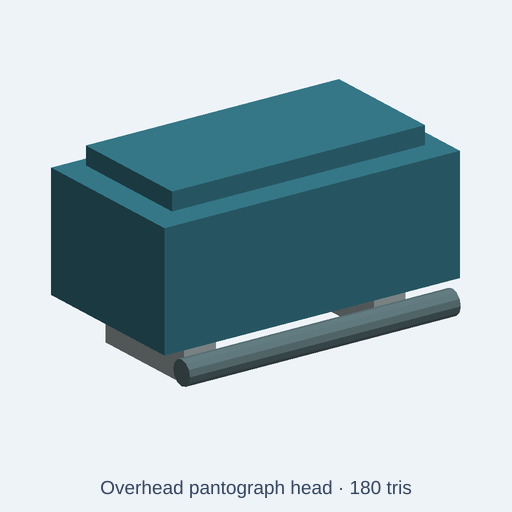
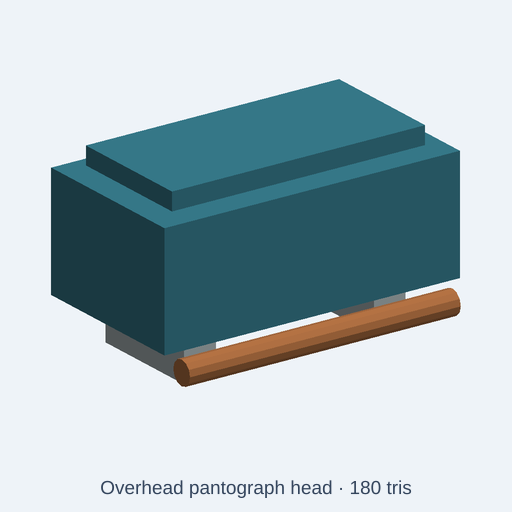
fix(catalog): colour pantograph contact rail as copper
The current-carrying contact-rail of
ev-charging-infrastructure/overhead-pantograph-head used the
engineeringPolymer colour, so the conductor read as an insulator. Add a
contactCopper control (#b87545) with preset values, assign it to the rail,
and drop the now-unused engineeringPolymer control. Geometry unchanged
(180 tris). Preview re-rendered; index regenerated (target row only).

Five-preview ledger and before/after evidence in
artifacts/catalog-demos/ev-charging-pantograph-contact-material-review-20261113.

Changed region(s): [[0.3438, 0.5625, 0.9062, 0.75]]

diff --git a/catalog/kits/ev-charging-infrastructure/overhead-pantograph-head.kcad.ts b/catalog/kits/ev-charging-infrastructure/overhead-pantograph-head.kcad.ts
@@ -1,13 +1,14 @@
 // SPDX-License-Identifier: CC0-1.0
 // quality-promotion: ev-charging-infrastructure 2026-11-05
 // Overhead pantograph head: compact overhead charging head with contact bar, hinge blocks, and a mounting yoke.
+// The contact rail carries the charging current, so it is bare copper, not engineering polymer.
 // Source convention: millimetres, Z up, base at z = 0.
 
 meta({
   name: "overhead-pantograph-head",
   license: 'CC0-1.0',
   title: "Overhead pantograph head",
-  description: "Compact overhead charging head with contact bar, hinge blocks, and a mounting yoke. Knobs: overall scale and powder-coated metal, engineering polymer and stainless steel color controls.",
+  description: "Compact overhead charging head with a bare copper contact bar, hinge blocks, and a mounting yoke. Knobs: overall scale and powder-coated metal, stainless steel and contact copper color controls.",
   tags: ['EV charging', 'electric vehicle', 'charging station', 'low poly', 'scene prop', 'CC0'],
   kit: "ev-charging-infrastructure",
   category: 'prop',
@@ -18,12 +19,12 @@ meta({
 
 const scale = param('scale', 1, { min: 0.7, max: 1.3, step: 0.05, label: 'Overall scale' });
 const powderCoat = param('powderCoat', '#397f90', { label: 'Powder-coated metal' });
-const engineeringPolymer = param('engineeringPolymer', '#657f84', { label: 'Engineering polymer' });
 const stainlessSteel = param('stainlessSteel', '#b5c0c2', { label: 'Stainless steel' });
+const contactCopper = param('contactCopper', '#b87545', { label: 'Copper contact rail' });
 
 presets({
-  fleetReady: { powderCoat: '#28765f', engineeringPolymer: '#263a36', stainlessSteel: '#c2c9c8' },
-  nightService: { powderCoat: '#3f5059', engineeringPolymer: '#222d32', stainlessSteel: '#c8cecd' },
+  fleetReady: { powderCoat: '#28765f', stainlessSteel: '#c2c9c8', contactCopper: '#c27c48' },
+  nightService: { powderCoat: '#3f5059', stainlessSteel: '#c8cecd', contactCopper: '#9a6440' },
 });
 const b=(x:number,y:number,z:number,w:number,d:number,h:number)=>box(w,d,h,true).translate(x,y,z+h/2).scale(scale);
 const c=(x:number,y:number,z:number,h:number,r:number,n=10)=>cylinder(h,r,n).translate(x,y,z).scale(scale);
@@ -33,7 +34,7 @@ const p=assembly("overhead-pantograph-head");
 p.part("mounting-yoke-left", b(-270, 0, 0, 90, 320, 330).color(stainlessSteel));
 p.part("mounting-yoke-right", b(270, 0, 0, 90, 320, 330).color(stainlessSteel));
 p.part("head-housing", b(0, 0, 120, 840, 460, 320).color(powderCoat));
-p.part("contact-rail", hx(0, -250, 75, 770, 34, 8).color(engineeringPolymer));
+p.part("contact-rail", hx(0, -250, 75, 770, 34, 8).color(contactCopper));
 p.part("pivot-left", c(-300, 0, 310, 90, 48, 8).color(powderCoat));
 p.part("pivot-right", c(300, 0, 310, 90, 48, 8).color(powderCoat));
 p.part("cover-panel", b(0, 0, 450, 720, 350, 50).color(powderCoat));

diff --git a/tests/integration/catalog/overheadPantographContactCopper.test.ts b/tests/integration/catalog/overheadPantographContactCopper.test.ts
@@ -1,0 +1,54 @@
+// SPDX-License-Identifier: MIT
+// Copyright (c) 2026 Andrii Shylenko and kernelCAD contributors
+
+import { resolve } from 'node:path';
+import { NodeIO } from '@gltf-transform/core';
+import { beforeAll, describe, expect, it } from 'vitest';
+import { buildCatalogAssetWithGlb } from '../../../src/agent/catalog/buildCatalog';
+import { initOcct } from '../../../src/kernel/backends/occt/occtBackend';
+
+const repoRoot = resolve(import.meta.dirname, '../../..');
+const source = 'catalog/kits/ev-charging-infrastructure/overhead-pantograph-head.kcad.ts';
+
+beforeAll(async () => {
+  await initOcct();
+}, 120_000);
+
+describe('ev-charging-infrastructure/overhead-pantograph-head contact material', () => {
+  it('colours the current-carrying contact rail as copper, not engineering polymer', async () => {
+    const { asset, glb } = await buildCatalogAssetWithGlb(repoRoot, source);
+
+    expect(asset.stats.triangles).toBe(180);
+    expect(asset.stats.triangles).toBeLessThanOrEqual(asset.triangleBudget);
+    expect(asset.description).toContain('bare copper contact bar');
+    expect(asset.params.filter((param) => param.type === 'color').map((param) => param.name)).toEqual([
+      'powderCoat', 'stainlessSteel', 'contactCopper',
+    ]);
+    expect(asset.presets.fleetReady?.contactCopper).toBe('#c27c48');
+    expect(asset.presets.nightService?.contactCopper).toBe('#9a6440');
+
+    const copper = asset.palette.find((zone) => zone.name === 'contactCopper');
+    expect(copper?.color).toBe('#b87545');
+    expect(copper?.parts).toEqual(['contact-rail']);
+    expect(asset.palette.some((zone) => zone.name === 'engineeringPolymer')).toBe(false);
+
+    const document = await new NodeIO().readBinary(glb);
+    const rail = document.getRoot().listNodes().find((node) => node.getName() === 'contact-rail');
+    const colors = rail?.getMesh()?.listPrimitives().flatMap((primitive) => {
+      const vertexColors = primitive.getAttribute('COLOR_0');
+      if (vertexColors !== null) {
+        return Array.from({ length: vertexColors.getCount() }, (_, index) =>
+          vertexColors.getElement(index, []).slice(0, 3).map((channel) =>
+            channel <= 0.0031308 ? 12.92 * channel : 1.055 * channel ** (1 / 2.4) - 0.055,
+          ));
+      }
+      const material = primitive.getMaterial();
+      return material === null ? [] : [material.getBaseColorFactor().slice(0, 3)];
+    }) ?? [];
+    const expected = [0xb8 / 255, 0x75 / 255, 0x45 / 255];
+    expect(colors.length).toBeGreaterThan(0);
+    expect(colors.every((color) => expected.every((channel, index) =>
+      Math.abs(channel - color[index]!) < 0.015,
+    ))).toBe(true);
+  }, 120_000);
+});

diff --git a/artifacts/catalog-demos/ev-charging-pantograph-contact-material-review-20261113/after/overhead-pantograph-head.kcad.ts b/artifacts/catalog-demos/ev-charging-pantograph-contact-material-review-20261113/after/overhead-pantograph-head.kcad.ts
@@ -1,0 +1,42 @@
+// SPDX-License-Identifier: CC0-1.0
+// quality-promotion: ev-charging-infrastructure 2026-11-05
+// Overhead pantograph head: compact overhead charging head with contact bar, hinge blocks, and a mounting yoke.
+// The contact rail carries the charging current, so it is bare copper, not engineering polymer.
+// Source convention: millimetres, Z up, base at z = 0.
+
+meta({
+  name: "overhead-pantograph-head",
+  license: 'CC0-1.0',
+  title: "Overhead pantograph head",
+  description: "Compact overhead charging head with a bare copper contact bar, hinge blocks, and a mounting yoke. Knobs: overall scale and powder-coated metal, stainless steel and contact copper color controls.",
+  tags: ['EV charging', 'electric vehicle', 'charging station', 'low poly', 'scene prop', 'CC0'],
+  kit: "ev-charging-infrastructure",
+  category: 'prop',
+  origin: 'base',
+  compat: ['ev-charging', 'parking', 'fleet', 'electric-vehicle', 'scene'],
+  triangleBudget: 2400,
+});
+
+const scale = param('scale', 1, { min: 0.7, max: 1.3, step: 0.05, label: 'Overall scale' });
+const powderCoat = param('powderCoat', '#397f90', { label: 'Powder-coated metal' });
+const stainlessSteel = param('stainlessSteel', '#b5c0c2', { label: 'Stainless steel' });
+const contactCopper = param('contactCopper', '#b87545', { label: 'Copper contact rail' });
+
+presets({
+  fleetReady: { powderCoat: '#28765f', stainlessSteel: '#c2c9c8', contactCopper: '#c27c48' },
+  nightService: { powderCoat: '#3f5059', stainlessSteel: '#c8cecd', contactCopper: '#9a6440' },
+});
+const b=(x:number,y:number,z:number,w:number,d:number,h:number)=>box(w,d,h,true).translate(x,y,z+h/2).scale(scale);
+const c=(x:number,y:number,z:number,h:number,r:number,n=10)=>cylinder(h,r,n).translate(x,y,z).scale(scale);
+const hx=(x:number,y:number,z:number,l:number,r:number,n=8)=>cylinder(l,r,n).alongAxis([1,0,0]).translate(x-l/2,y,z).scale(scale);
+
+const p=assembly("overhead-pantograph-head");
+p.part("mounting-yoke-left", b(-270, 0, 0, 90, 320, 330).color(stainlessSteel));
+p.part("mounting-yoke-right", b(270, 0, 0, 90, 320, 330).color(stainlessSteel));
+p.part("head-housing", b(0, 0, 120, 840, 460, 320).color(powderCoat));
+p.part("contact-rail", hx(0, -250, 75, 770, 34, 8).color(contactCopper));
+p.part("pivot-left", c(-300, 0, 310, 90, 48, 8).color(powderCoat));
+p.part("pivot-right", c(300, 0, 310, 90, 48, 8).color(powderCoat));
+p.part("cover-panel", b(0, 0, 450, 720, 350, 50).color(powderCoat));
+
+return p.model();

diff --git a/artifacts/catalog-demos/ev-charging-pantograph-contact-material-review-20261113/before/overhead-pantograph-head.kcad.ts b/artifacts/catalog-demos/ev-charging-pantograph-contact-material-review-20261113/before/overhead-pantograph-head.kcad.ts
@@ -1,0 +1,41 @@
+// SPDX-License-Identifier: CC0-1.0
+// quality-promotion: ev-charging-infrastructure 2026-11-05
+// Overhead pantograph head: compact overhead charging head with contact bar, hinge blocks, and a mounting yoke.
+// Source convention: millimetres, Z up, base at z = 0.
+
+meta({
+  name: "overhead-pantograph-head",
+  license: 'CC0-1.0',
+  title: "Overhead pantograph head",
+  description: "Compact overhead charging head with contact bar, hinge blocks, and a mounting yoke. Knobs: overall scale and powder-coated metal, engineering polymer and stainless steel color controls.",
+  tags: ['EV charging', 'electric vehicle', 'charging station', 'low poly', 'scene prop', 'CC0'],
+  kit: "ev-charging-infrastructure",
+  category: 'prop',
+  origin: 'base',
+  compat: ['ev-charging', 'parking', 'fleet', 'electric-vehicle', 'scene'],
+  triangleBudget: 2400,
+});
+
+const scale = param('scale', 1, { min: 0.7, max: 1.3, step: 0.05, label: 'Overall scale' });
+const powderCoat = param('powderCoat', '#397f90', { label: 'Powder-coated metal' });
+const engineeringPolymer = param('engineeringPolymer', '#657f84', { label: 'Engineering polymer' });
+const stainlessSteel = param('stainlessSteel', '#b5c0c2', { label: 'Stainless steel' });
+
+presets({
+  fleetReady: { powderCoat: '#28765f', engineeringPolymer: '#263a36', stainlessSteel: '#c2c9c8' },
+  nightService: { powderCoat: '#3f5059', engineeringPolymer: '#222d32', stainlessSteel: '#c8cecd' },
+});
+const b=(x:number,y:number,z:number,w:number,d:number,h:number)=>box(w,d,h,true).translate(x,y,z+h/2).scale(scale);
+const c=(x:number,y:number,z:number,h:number,r:number,n=10)=>cylinder(h,r,n).translate(x,y,z).scale(scale);
+const hx=(x:number,y:number,z:number,l:number,r:number,n=8)=>cylinder(l,r,n).alongAxis([1,0,0]).translate(x-l/2,y,z).scale(scale);
+
+const p=assembly("overhead-pantograph-head");
+p.part("mounting-yoke-left", b(-270, 0, 0, 90, 320, 330).color(stainlessSteel));
+p.part("mounting-yoke-right", b(270, 0, 0, 90, 320, 330).color(stainlessSteel));
+p.part("head-housing", b(0, 0, 120, 840, 460, 320).color(powderCoat));
+p.part("contact-rail", hx(0, -250, 75, 770, 34, 8).color(engineeringPolymer));
+p.part("pivot-left", c(-300, 0, 310, 90, 48, 8).color(powderCoat));
+p.part("pivot-right", c(300, 0, 310, 90, 48, 8).color(powderCoat));
+p.part("cover-panel", b(0, 0, 450, 720, 350, 50).color(powderCoat));
+
+return p.model();

diff --git a/artifacts/catalog-demos/ev-charging-pantograph-contact-material-review-20261113/README.md b/artifacts/catalog-demos/ev-charging-pantograph-contact-material-review-20261113/README.md
@@ -1,0 +1,92 @@
+# Overhead pantograph head contact-rail material review — 13 November 2026
+
+This round reviewed five ev-charging-infrastructure previews and fixed one
+material mismatch in the existing `ev-charging-infrastructure/overhead-pantograph-head`
+asset. No catalog IDs or kits were added. The kit had no earlier semantic or
+material review.
+
+## Finding and correction
+
+In the baseline, the `contact-rail` part used the `engineeringPolymer` colour
+(`#657f84`, grey). The contact rail is the part that carries the charging
+current from the overhead head to the vehicle roof rails, so it must be a
+conductor. A polymer finish labels the defining functional part as an
+insulator.
+
+The updated model:
+
+- adds a `contactCopper` colour control (default `#b87545`, the same copper
+  value used in the grid-substation kit) and assigns it to `contact-rail`;
+- sets `contactCopper` in both presets (`fleetReady` `#c27c48`,
+  `nightService` `#9a6440`);
+- removes `engineeringPolymer`, because no part used it after the change. An
+  unused colour control would show a knob that changes nothing;
+- updates the source comment and description.
+
+Geometry does not change: 180 triangles (budget 2,400). See the
+[before preview](before/overhead-pantograph-head.png), the
+[updated preview](after/overhead-pantograph-head.png) and the
+[side-by-side image](before-after.png).
+
+## Five-preview ledger
+
+| Asset | Source SHA-256 (16) | Preview SHA-256 (16) | Observation | Result |
+| --- | --- | --- | --- | --- |
+| `modular-charger-power-stack` | `3c5af95282ff246a` | `31edbf299fe2e6ea` | Four stacked modules, drawer fronts and handles on a base frame read as a power stack. Base frame uses `stainlessSteel`; galvanised steel is more usual. | Minor; recorded, not fixed. |
+| `battery-buffer-charger-container` | `f7e51c625d56d88e` | `7976b7400552aa1c` | Container body, doors, louvre bank and cable ports read correctly. Painted body and metal louvres are coherent. | No defect found. |
+| `liquid-cooled-charging-cable` | `2a6ba1c7cd65b920` | `62f69e1c2409f6af` | Elastomer cable and coolant lines, polymer connector shell. `strain-guard` and coolant collars use `powderCoat`; on real cables these are moulded polymer or elastomer. | Minor; recorded, not fixed. |
+| `overhead-pantograph-head` | `22ac97dd4534cc50` | `dfe242d5040f8a10` | Current-carrying contact rail uses `engineeringPolymer`. | Fixed in this round. |
+| `remote-charger-power-cabinet` | `58341b1724b4d078` | `4506e10a7c48b09f` | Enclosure, door seams, vent slots and plinth read as an outdoor cabinet. `ground-terminal` uses `powderCoat`; a real earth stud is bare copper or brass, but it is small and mostly hidden. | Minor; recorded, not fixed. |
+
+The [five-preview sample](sample/five-preview-sample.png) shows the baseline
+renders.
+
+Related defect, not fixed in this round: `bus-depot-pantograph-post` assigns
+`engineeringPolymer` to both `contact-head` and `contact-bar`. The
+`contact-bar` has the same conductor-as-polymer mismatch. It is left for a
+separate change to keep this round to one asset.
+
+Known limitation, not a material issue: the pantograph head geometry is a
+blockout. The mounting yoke sits under the housing and the pivots are inside
+it, so the preview does not show a working pantograph linkage.
+
+## Overlap check
+
+- The other eight open PRs (#1359, #1309, #1253, #1215, #1211, #1195, #1187,
+  #1094) change no file under `ev-charging-infrastructure`. #1258 is the
+  destination PR.
+- An issue search for `pantograph` (open and closed) returned no matches.
+- #1298, #1305, #1307 and #1308 are merged and change no file under
+  `ev-charging-infrastructure`.
+
+## Verification
+
+```sh
+npx tsx scripts/renderCatalogPreviews.ts overhead-pantograph-head
+npx tsx scripts/buildAssetCatalog.ts
+npx eslint catalog/kits/ev-charging-infrastructure/ tests/integration/catalog/overheadPantographContactCopper.test.ts
+npx vitest run tests/integration/catalog/overheadPantographContactCopper.test.ts
+python3 scripts/checkCatalogQuality.py --kit ev-charging-infrastructure
+npx vitest run tests/integration/catalog/
+```
+
+Results on 13 November 2026:
+
+- The focused test passes 1/1. With the baseline source restored, it fails
+  (description does not contain `bare copper contact bar`).
+- ESLint is clean.
+- The ev-charging-infrastructure quality gate passes 50/50.
+- The regenerated index changes only the `overhead-pantograph-head` row. Its
[1 lines of base64/hex data omitted]
+  matches the source file.
+- Full catalog integration suite: see [verification/catalog-integration.md](verification/catalog-integration.md).
+
+The focused test checks the triangle count, colour controls, preset values,
+palette mapping, that `engineeringPolymer` is gone, and that the exported GLB
+colours of `contact-rail` match `#b87545`.
+
+No MP4 was produced in this round. The change is a colour reassignment on one
+existing asset; the before/after previews are the visual evidence.
+
+This generic low-poly asset is not a vendor design, current rating or
+charging-interface specification.

diff --git a/docs/quality/asset-semantic-2026-11-12.md b/docs/quality/asset-semantic-2026-11-12.md
@@ -120,3 +120,10 @@ The [CVT material-review handoff](../../artifacts/catalog-demos/grid-substation-
 - The focused exported-GLB regression passed 1/1; ESLint is clean; beverage-bottling-line passes 50/50 structural checks (100.00%). The local catalog build generated the checkweigher detail page with the new `beltPolymer` control and both presets. The full catalog integration rerun passed 50/50 files and 83/83 tests in 785.98 seconds; the whole-catalog test took 754.61 seconds. After the old 15-minute cap expired under workspace load on initial attempts, its test timeout was raised to 30 minutes. Both the initial timeout and passing rerun logs are retained in the handoff bundle.
 
 The [checkweigher review bundle](../../artifacts/catalog-demos/beverage-case-checkweigher-belt-material-review-20261112/README.md) retains the five source/render pairs, public baseline, issue/PR target audit, before/after source and preview, generated-index verification, checks, and an inspected 15-second MP4. This generic asset correction does not establish a vendor design, belt specification, washdown certification, measurement accuracy, deployment, process simulation, or hardware acceptance.
+
+## 13 November 2026 — ev-charging pantograph contact material review
+
+- Reviewed five ev-charging-infrastructure previews: `modular-charger-power-stack`, `battery-buffer-charger-container`, `liquid-cooled-charging-cable`, `overhead-pantograph-head`, and `remote-charger-power-cabinet`. The kit had no earlier semantic review. No open PR other than #1258 and no issue touches these files.
+- `overhead-pantograph-head` coloured its current-carrying `contact-rail` with the `engineeringPolymer` control. The rail now uses a new `contactCopper` control (`#b87545`), set in both presets; the unused `engineeringPolymer` control was removed. Geometry unchanged at 180 triangles.
+- Minor findings recorded, not fixed: powder-coated strain guard and collars on `liquid-cooled-charging-cable`, powder-coated earth stud on `remote-charger-power-cabinet`, stainless base frame on `modular-charger-power-stack`. Same conductor-as-polymer defect remains on `bus-depot-pantograph-post` `contact-bar`.
+- Evidence, ledger and verification: [review bundle](../../artifacts/catalog-demos/ev-charging-pantograph-contact-material-review-20261113/README.md).

diff --git a/artifacts/catalog-demos/ev-charging-pantograph-contact-material-review-20261113/verification/catalog-integration.md b/artifacts/catalog-demos/ev-charging-pantograph-contact-material-review-20261113/verification/catalog-integration.md
@@ -1,0 +1,8 @@
+# Catalog integration run — 13 November 2026
+
+Command: `npx vitest run tests/integration/catalog/`
+
+- Test files: 52 passed (52)
+- Tests: 85 passed (85)
+- Duration: 676.16 s
+- Exit code: 0
